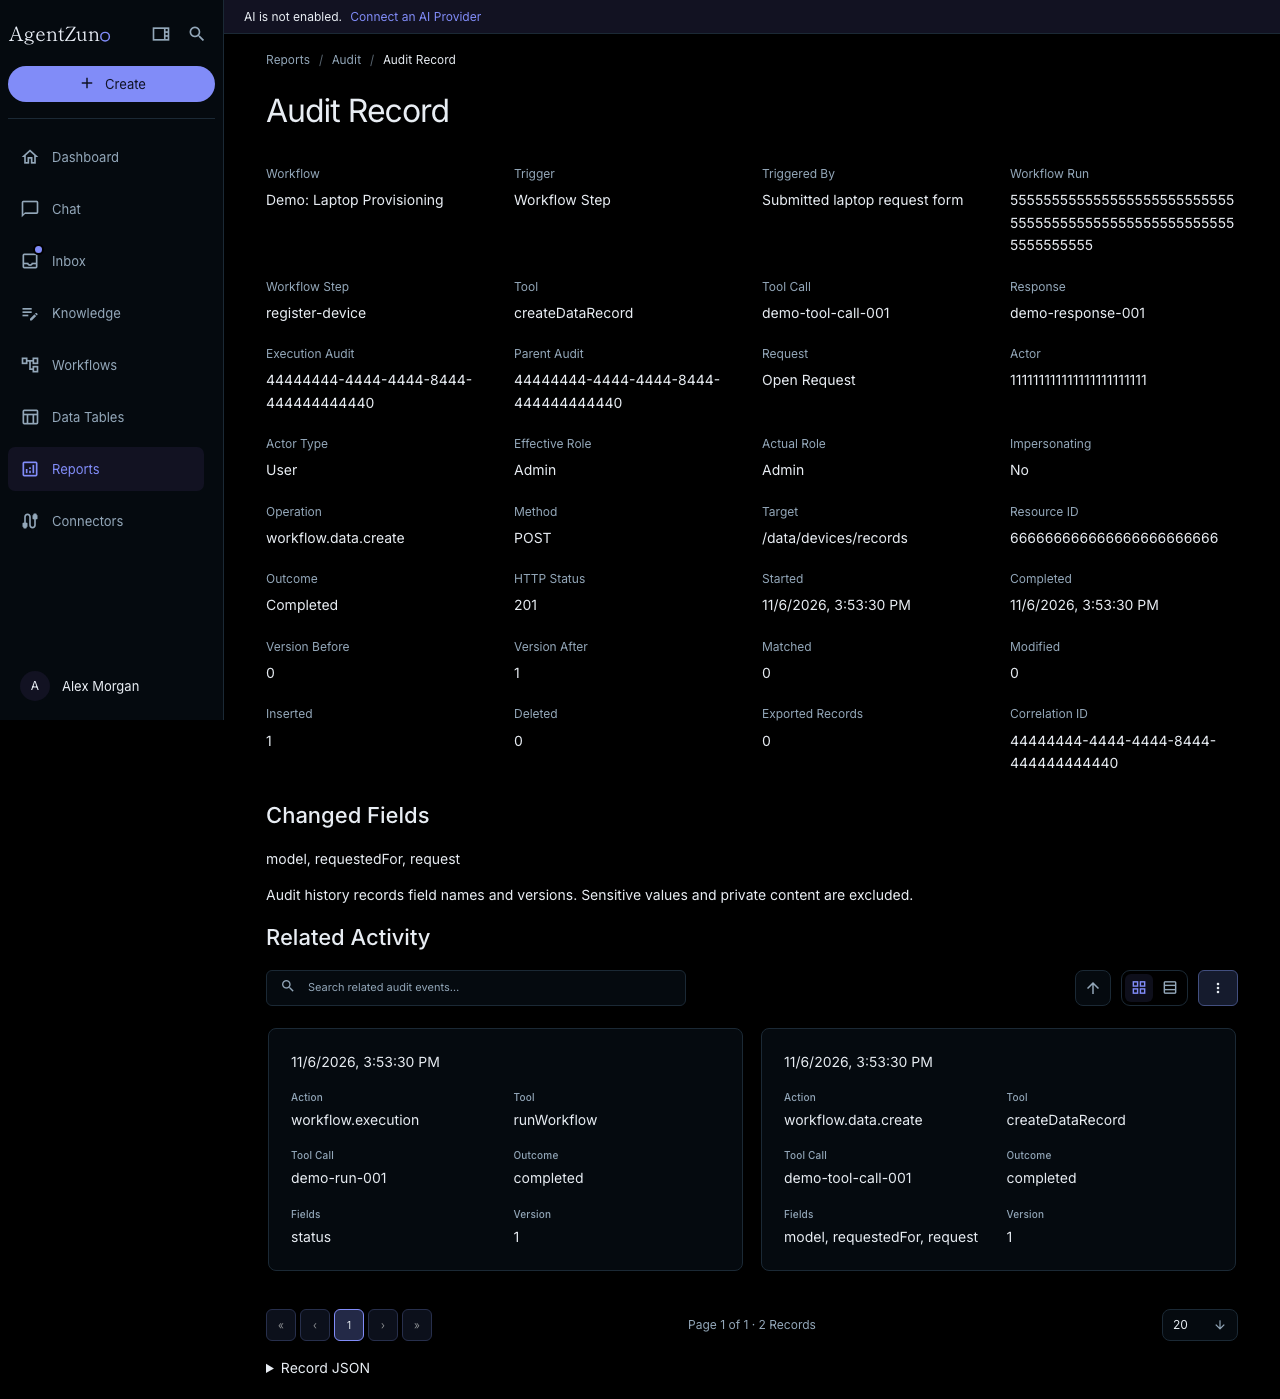
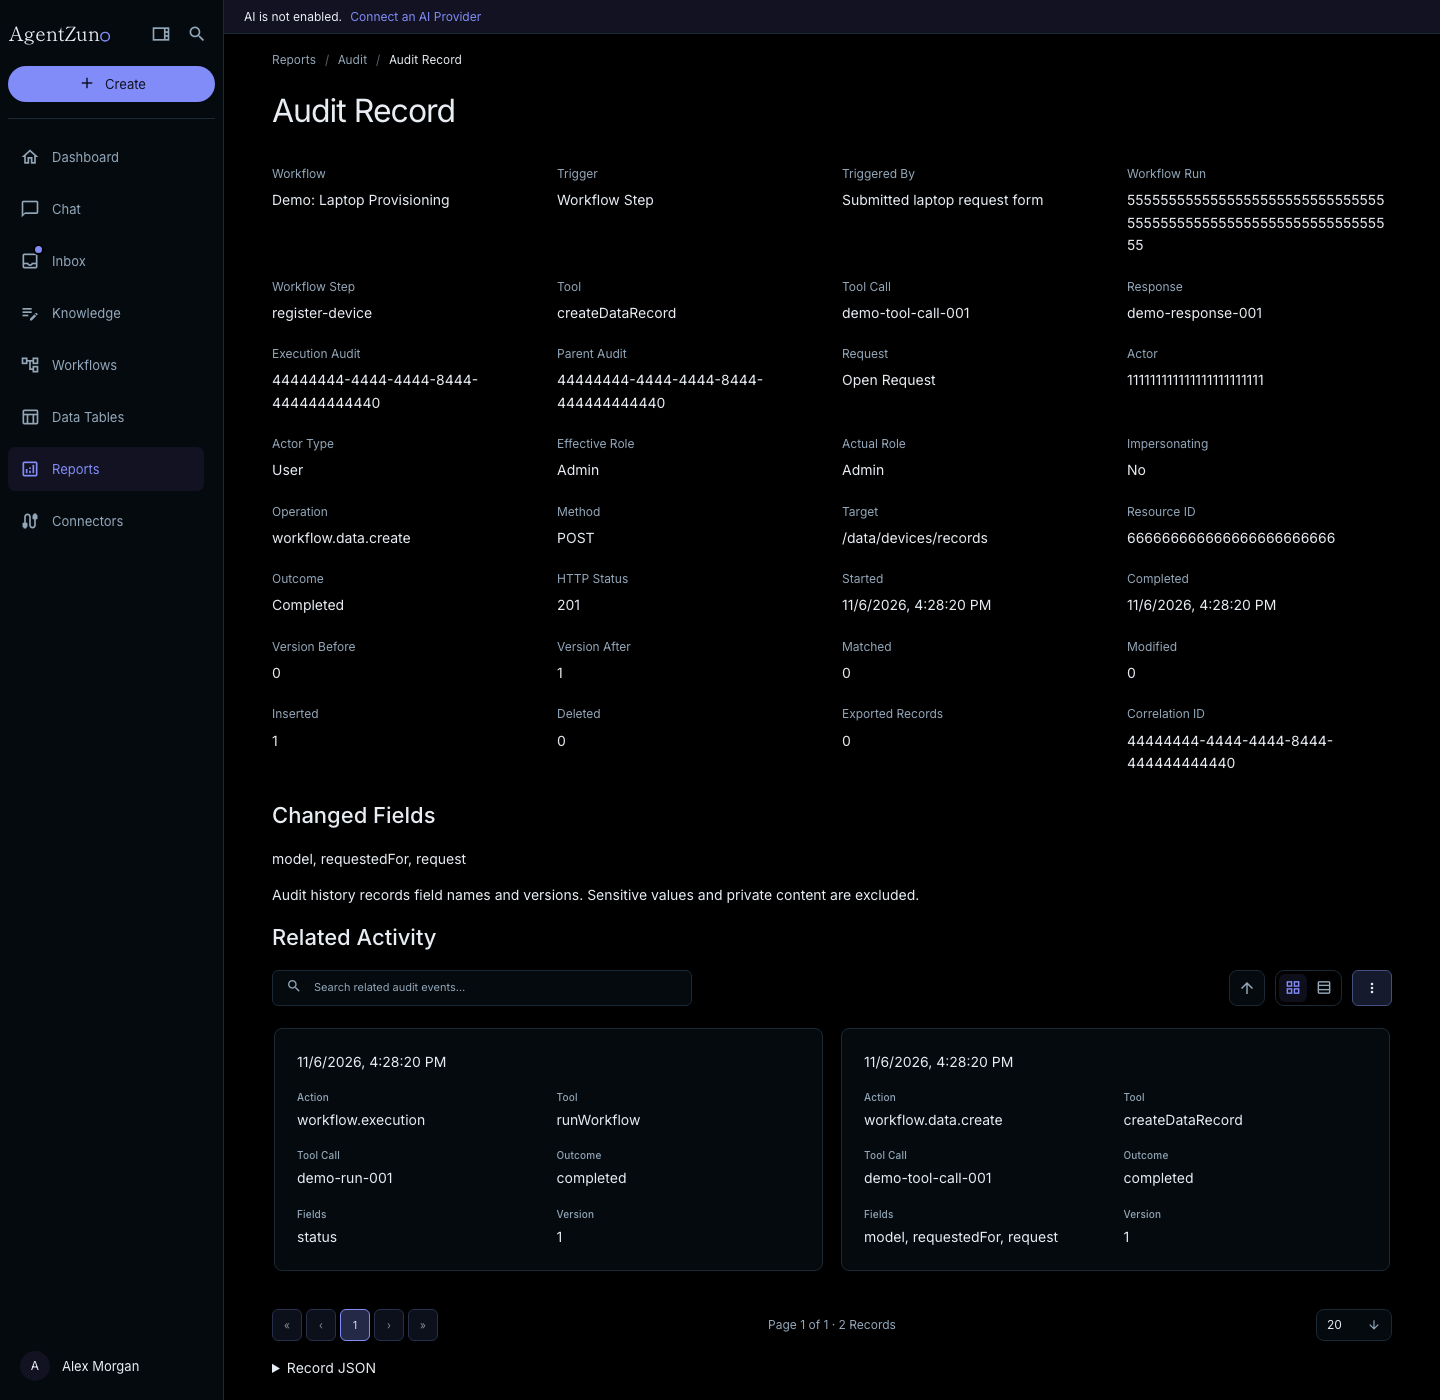
enhanced knowledge and data record views

diff --git a/test/browser/workspace.spec.js b/test/browser/workspace.spec.js
@@ -1617,6 +1617,8 @@ test('README shows fictional IT chat cards and a populated workflow audit', asyn
   await expect(page.getByRole('heading', { name: 'Audit Record', exact: true })).toBeVisible();
   await expect(page.locator('.audit-record-details')).toContainText('createDataRecord');
   await expect(page.locator('.record-card').first()).toBeVisible();
+  await expect(page.getByText('Record JSON', { exact: true })).toBeInViewport();
+  expect((await page.locator('.workspace-sidebar').boundingBox()).height).toBe(1400);
   await page.screenshot({
     path: 'public/help/readme-workflow-audit-dark.png',
     fullPage: false,
@@ -1764,4 +1766,93 @@ test('empty knowledge folders can be deleted from their editor after typed confi
   await expect(folder).toHaveCount(0);
   const deleted = await page.request.get(`/api/records/knowledge-base/${base.id}`);
   expect(deleted.status()).toBe(404);
+});
+
+test('workflow Settings danger zone uses default-off preservation choices and typed confirmation', async ({
+  page,
+  isMobile,
+}, testInfo) => {
+  await page
+    .context()
+    .addCookies([{ name: 'browser_test', value: '1', url: 'http://127.0.0.1:4180' }]);
+  const queueName = `Workflow deletion group ${testInfo.project.name}`;
+  const group = await page.request.post('/api/helpdesk/groups', {
+    data: {
+      name: queueName,
+      description: '',
+      routingInstructions: '',
+      userIds: [],
+      active: true,
+      assignmentEnabled: true,
+      approvalEnabled: true,
+    },
+  });
+  expect(group.ok(), await group.text()).toBe(true);
+  const name = `Disposable Workflow ${testInfo.project.name}`;
+  const created = await page.request.post('/api/helpdesk/workflows', {
+    data: {
+      name,
+      department: 'it',
+      keywords: [],
+      action: 'route',
+      queueName,
+      enabled: false,
+      intent: 'draft',
+    },
+  });
+  expect(created.ok(), await created.text()).toBe(true);
+  const workflow = await created.json();
+  await page.goto(`/workspace/222222222222222222222222/workflows/${workflow.id}/edit`);
+  if (isMobile)
+    await page
+      .getByRole('group', { name: 'Conversation view' })
+      .getByRole('button', { name: 'Workflow', exact: true })
+      .click();
+  await page.getByRole('tab', { name: 'Settings', exact: true }).click();
+  const danger = page.getByRole('region', { name: 'Danger Zone', exact: true });
+  const requests = danger.getByRole('switch', { name: 'Preserve existing requests', exact: true });
+  const history = danger.getByRole('switch', { name: 'Preserve workflow history', exact: true });
+  await expect(requests).toHaveAttribute('aria-checked', 'false');
+  await expect(history).toHaveAttribute('aria-checked', 'false');
+  await danger.getByRole('button', { name: 'Delete Workflow', exact: true }).click();
+  const confirmation = page.getByRole('dialog', { name: 'Delete Workflow', exact: true });
+  await expect(confirmation).toContainText('Workflow runs and saved versions will be deleted.');
+  await expect(confirmation).toContainText('their tasks, and request attachments will be deleted.');
+  await confirmation.getByRole('button', { name: 'Cancel', exact: true }).click();
+  expect(
+    (await (await page.request.get('/api/helpdesk/workflows')).json()).some(
+      (row) => row.id === workflow.id,
+    ),
+  ).toBe(true);
+  await requests.click();
+  await history.click();
+  await danger.getByRole('button', { name: 'Delete Workflow', exact: true }).click();
+  await expect(confirmation).toContainText('Existing requests and their tasks will be kept.');
+  await expect(confirmation).toContainText('Workflow runs and saved versions will be kept.');
+  await expect(
+    confirmation.getByRole('button', { name: 'Delete Workflow', exact: true }),
+  ).toBeDisabled();
+  await confirmation.getByRole('textbox', { name: 'Confirmation name', exact: true }).fill(name);
+  const deleted = page.waitForResponse(
+    (response) =>
+      response.request().method() === 'DELETE' &&
+      response.url().endsWith(`/api/helpdesk/workflows/${workflow.id}`),
+  );
+  await confirmation.getByRole('button', { name: 'Delete Workflow', exact: true }).click();
+  const response = await deleted;
+  expect(response.ok(), await response.text()).toBe(true);
+  expect(response.request().postDataJSON()).toMatchObject({
+    confirmed: true,
+    preserveRequests: true,
+    preserveHistory: true,
+    name,
+    version: workflow.version,
+  });
+  await expect(page).toHaveURL(/\/workflows$/);
+  await expect(page.getByText('Workflow deleted.', { exact: true })).toBeVisible();
+  expect(
+    (await (await page.request.get('/api/helpdesk/workflows')).json()).some(
+      (row) => row.id === workflow.id,
+    ),
+  ).toBe(false);
 });

diff --git a/api/test/workflow-deletion.test.js b/api/test/workflow-deletion.test.js
@@ -30,6 +30,7 @@ async function verify(db) {
     const request = {
       _id: new ObjectId(),
       ...related,
+      requestId: String(new ObjectId()),
       title: 'Existing request',
       status: 'waiting-for-approval',
       approvalUserIds: ['approver'],
@@ -42,15 +43,13 @@ async function verify(db) {
     await store
       .collection('requestAttachments')
       .insertOne({ ...scope, requestId: String(request._id), name: 'device.png' });
-    await store
-      .collection('workflowRuns')
-      .insertOne({
-        _id: String(new ObjectId()),
-        ...related,
-        requestId: String(request._id),
-        status: 'awaiting-approval',
-        steps: [],
-      });
+    await store.collection('workflowRuns').insertOne({
+      _id: String(new ObjectId()),
+      ...related,
+      requestId: String(request._id),
+      status: 'awaiting-approval',
+      steps: [],
+    });
     return {
       workflow,
       related,

diff --git a/api/src/workflows/deleteWorkflow.js b/api/src/workflows/deleteWorkflow.js
@@ -57,13 +57,11 @@ export async function deleteWorkflow(store, user, id, input) {
               { upsert: true },
             );
       }
-      const deleted = await store
-        .collection('helpdeskWorkflows')
-        .deleteOne({
-          ...filter,
-          version: queryVersion(input.version),
-          name: queryString(input.name, 80),
-        });
+      const deleted = await store.collection('helpdeskWorkflows').deleteOne({
+        ...filter,
+        version: queryVersion(input.version),
+        name: queryString(input.name, 80),
+      });
       if (!deleted.deletedCount) deny('Workflow changed. Reload before deleting.', 409);
       // Removing the authoritative workflow prevents new offers and future run actions.
       await store.collection('workflowRuns').updateMany(

diff --git a/src/components/workflows/WorkflowDangerZone.jsx b/src/components/workflows/WorkflowDangerZone.jsx
@@ -41,8 +41,8 @@ export default function WorkflowDangerZone(props) {
           ...choices,
         }),
       });
+      notify({ tone: 'success', message: 'Workflow deleted.', destination: props.destination });
       await props.onDeleted?.();
-      notify({ tone: 'success', message: 'Workflow deleted.' });
     } catch (error) {
       notify({ tone: 'error', message: error.message });
     } finally {

diff --git a/src/pages/workspace/workflows/WorkflowBuilderPage.jsx b/src/pages/workspace/workflows/WorkflowBuilderPage.jsx
@@ -860,6 +860,7 @@ export default function WorkflowBuilderPage() {
                 {(workflow) => (
                   <WorkflowDangerZone
                     workflow={workflow}
+                    destination={path('/workspace/workflows')}
                     disabled={saving() || sending() || processing()}
                     onBusy={setDeleting}
                     onDeleted={() => {
